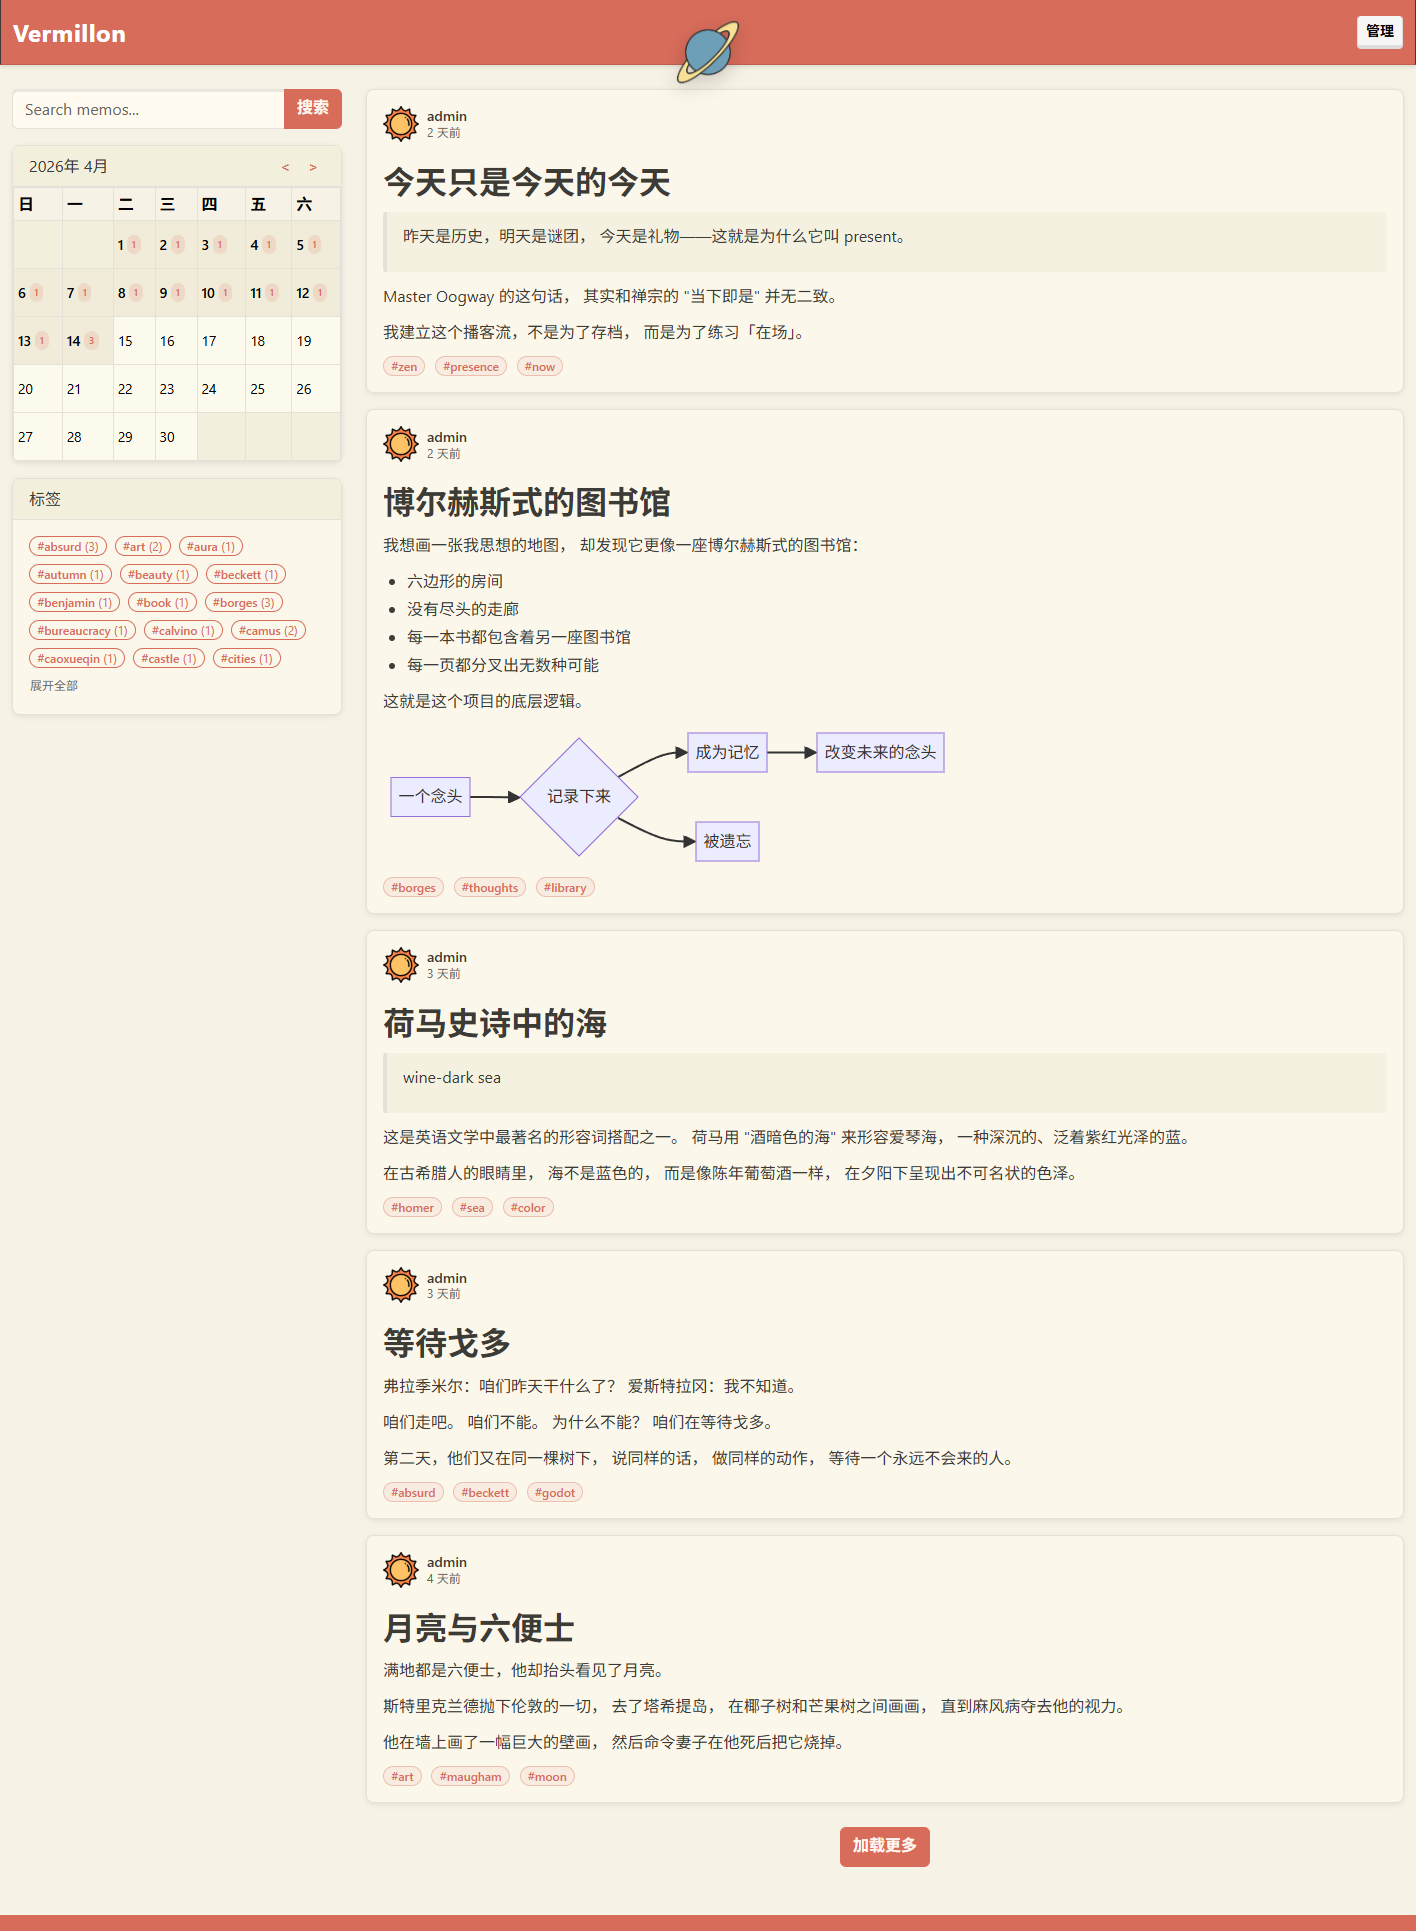
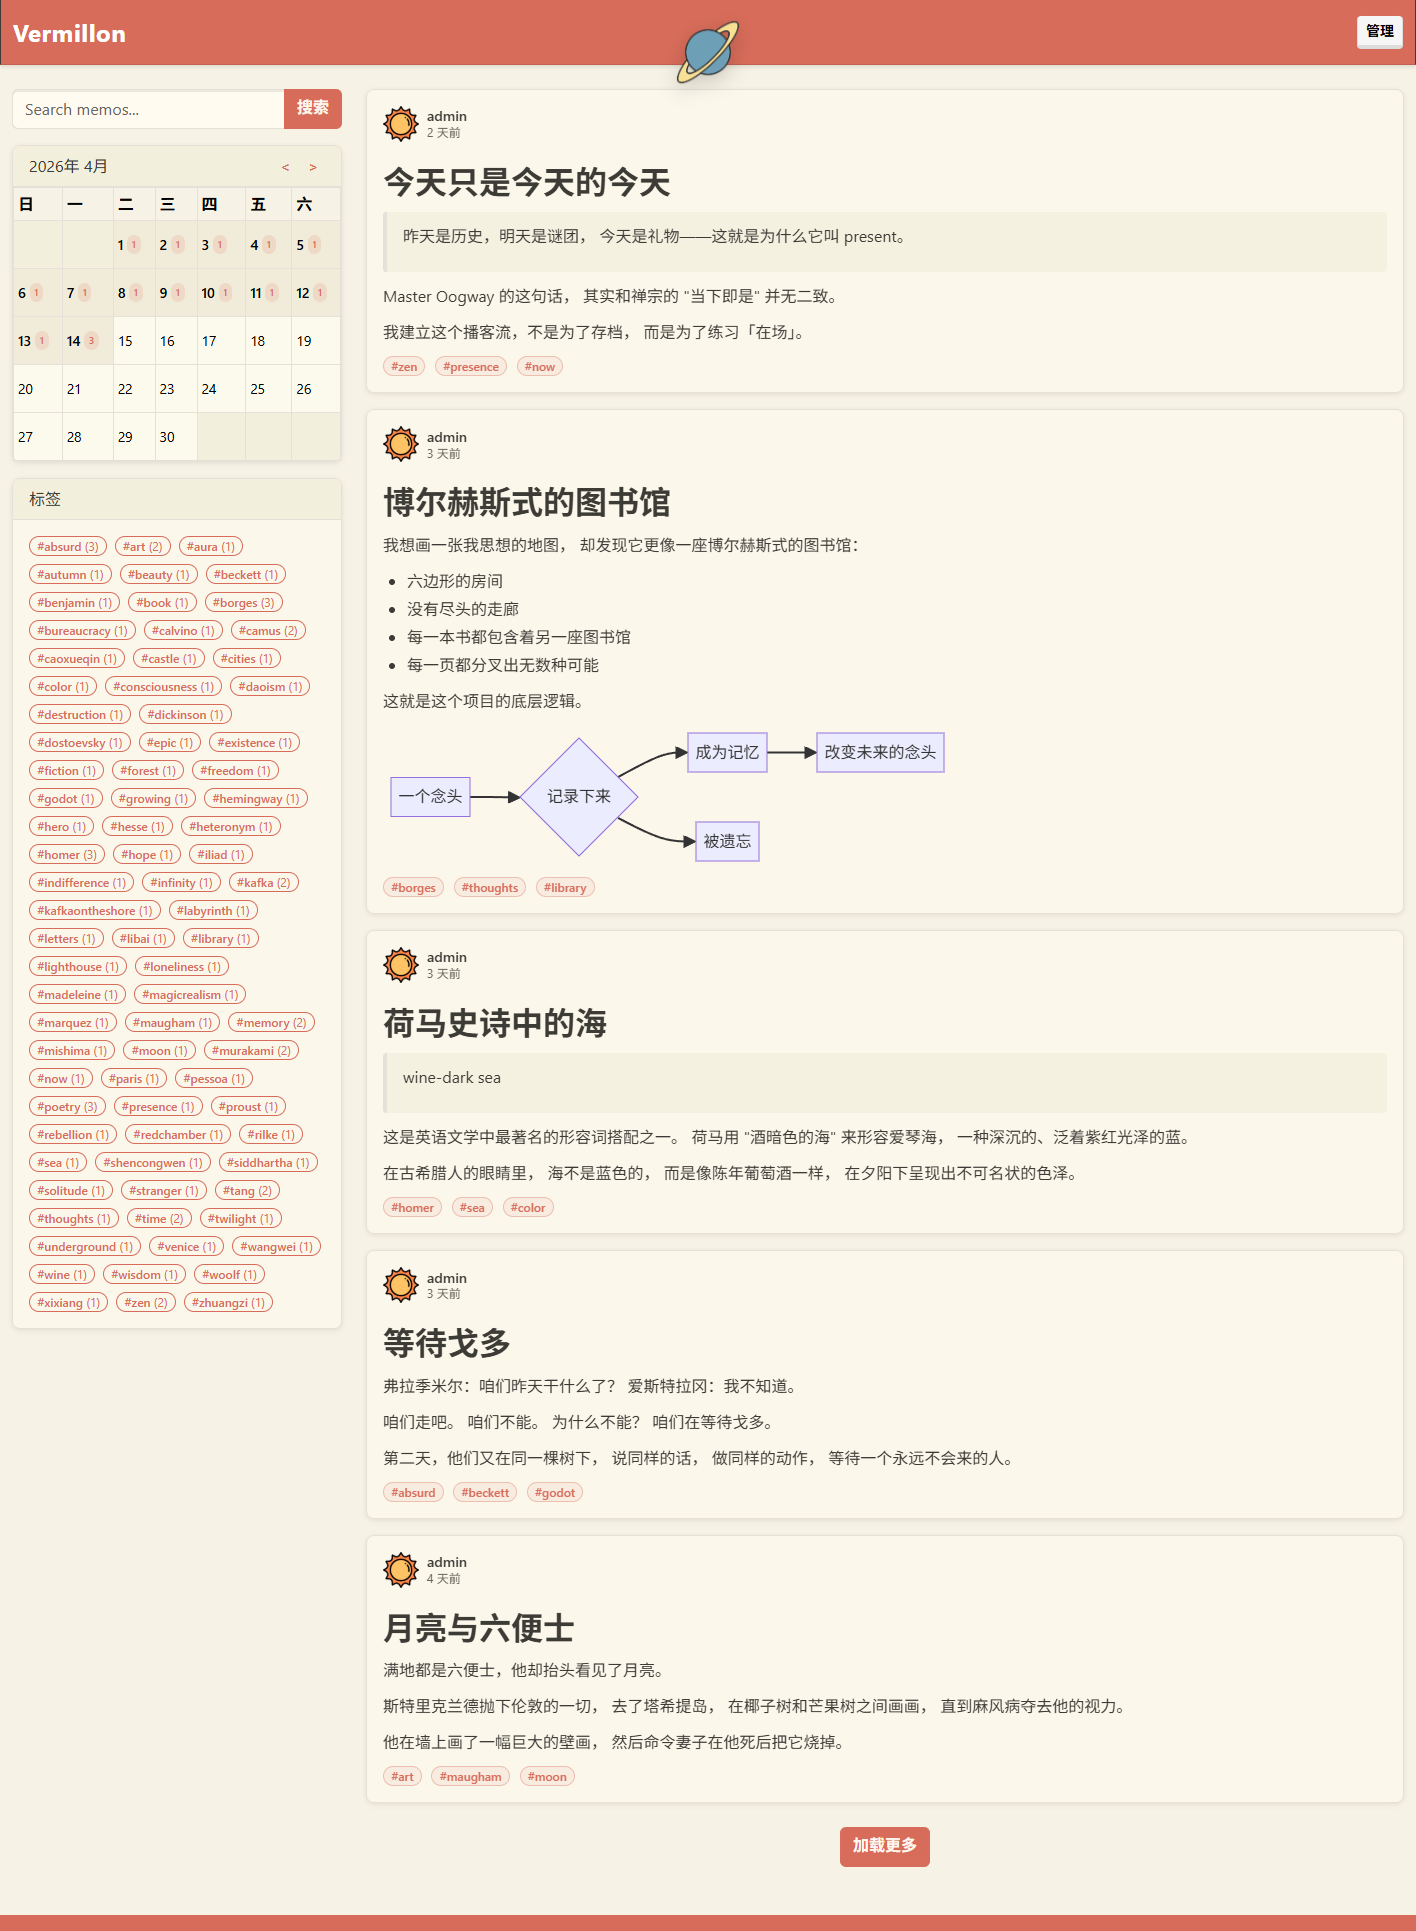
chore: bump version to 1.2 and update changelog

diff --git a/app.py b/app.py
@@ -58,7 +58,7 @@ def create_app():
     
     @app.route('/api/version')
     def version():
-        return jsonify({'version': '1.1'})
+        return jsonify({'version': '1.2'})
     
     return app
 

diff --git a/README.md b/README.md
@@ -184,7 +184,12 @@ $env:UPLOAD_FOLDER="/data/uploads"
 
 ## 版本历史
 
-- **v1.1**（当前）
+- **v1.2**（当前）
+  - 增加 7 项微交互：骨架屏加载、卡片入场动画、Hover 微抬升、Toast 通知、图片淡入、平滑滚动与返回顶部、空状态引导
+  - 标签列表默认全部展开
+  - 修复若干视觉细节
+
+- **v1.1**
   - 增加草稿/发布状态
   - 增加文章元数据（字数、阅读次数、修改次数）
   - 管理后台升级为两栏布局
